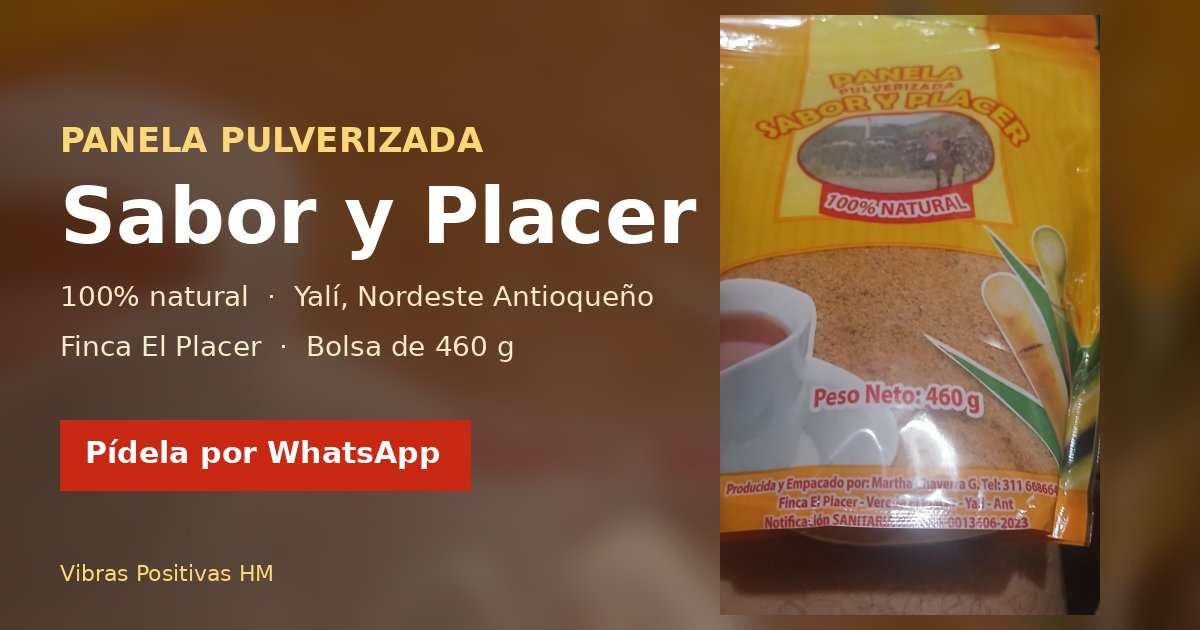
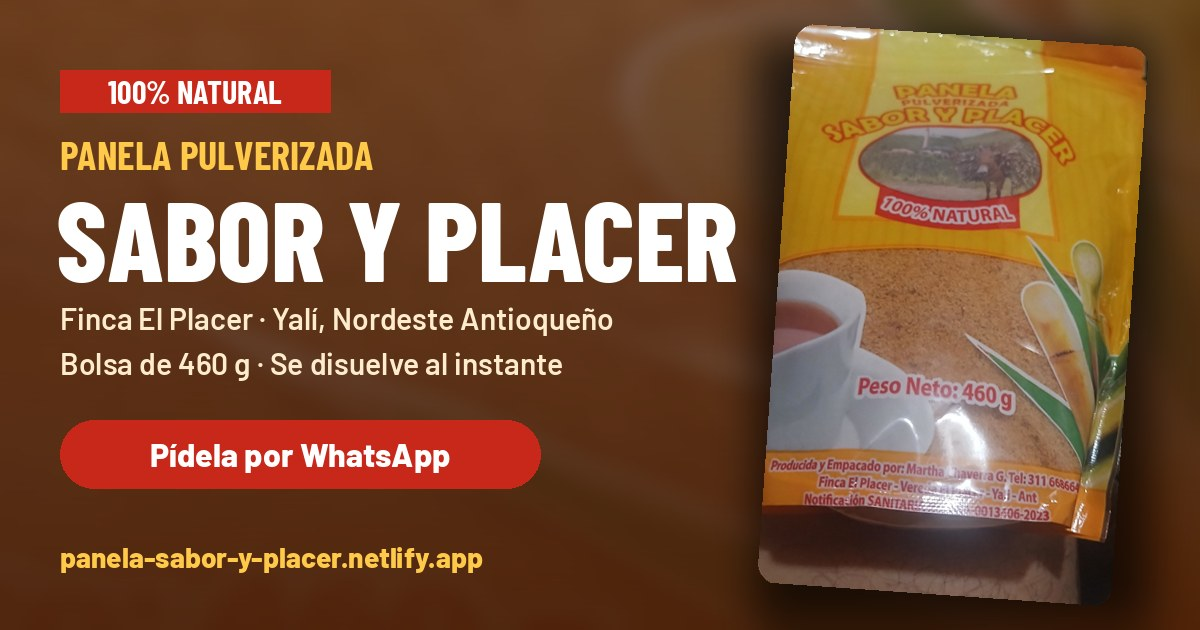
Flyer, nueva vista previa del enlace y familia de presentaciones Sabor y Placer en el pedido
Claude-Session: https://claude.ai/code/session_01Qv96KWj9HhUnPprSrUncJt

diff --git a/index.html b/index.html
@@ -139,6 +139,25 @@ input:focus,textarea:focus{outline:none;border-color:var(--miel)}
 .priv{font-size:12px;color:#7a5232;margin-top:12px;line-height:1.4}
 .pedido .cta{width:100%;justify-content:center}
 
+.fam{display:grid;gap:14px;grid-template-columns:repeat(2,1fr)}
+@media(min-width:760px){.fam{grid-template-columns:repeat(3,1fr)}}
+.pres{position:relative;border-radius:16px;overflow:hidden;min-height:170px;color:#fff;display:flex;flex-direction:column;justify-content:flex-end;padding:14px;cursor:pointer;box-shadow:0 10px 26px #4a1f0533;transition:transform .3s}
+.pres:hover{transform:translateY(-5px) rotate(-.5deg)}
+.pres img{position:absolute;inset:0;width:100%;height:100%;object-fit:cover;transition:transform 4s}
+.pres:hover img{transform:scale(1.15)}
+.pres::after{content:"";position:absolute;inset:0;background:linear-gradient(transparent 20%,#2b1404e6)}
+.pres *:not(img){position:relative;z-index:2}
+.pres b{font:800 24px "Barlow Condensed";text-transform:uppercase;line-height:1}
+.pres small{color:var(--oro);font-weight:700}
+.pres .add{margin-top:8px;align-self:flex-start;background:var(--rojo);border-radius:20px;padding:5px 12px;font:800 12px Barlow;text-transform:uppercase;letter-spacing:1px}
+.pres.star,.pres:last-child{grid-column:span 2}
+@media(min-width:760px){.pres.star,.pres:last-child{grid-column:span 1}}
+.flash{animation:flash .8s}
+@keyframes flash{0%{background:#ffc94a}100%{background:transparent}}
+.lines .row{border-bottom:1px dashed #e6cfa3;padding-bottom:10px}
+.lines .qty button{width:38px;height:38px;font-size:20px}
+.lines .qty output{min-width:36px;font-size:26px}
+.note{font-size:13px;color:#7a5232;margin-top:18px}
 footer{background:var(--cafe);color:#f3d9a6;text-align:center;padding:36px 20px 110px;font-size:14px;line-height:1.7}
 footer b{color:var(--oro)}
 
@@ -229,15 +248,21 @@ footer b{color:var(--oro)}
   </div>
 </section>
 
+<section style="background:#fff">
+  <div class="wrap">
+    <h2 class="sec-t rv" data-i18n="fam_t">La familia Sabor y Placer</h2>
+    <p class="sec-s rv" data-i18n="fam_s">Además de la pulverizada, la marca tiene panela en pastilla, redonda, cuadrada y porcionada. Toca una para agregarla a tu pedido.</p>
+    <div class="fam" id="fam"></div>
+    <p class="note rv" data-i18n="fam_n">Presentaciones de la marca que se encuentran en supermercados de Antioquia. Confirma disponibilidad al hacer tu pedido.</p>
+  </div>
+</section>
+
 <section class="pedido" id="pedido">
   <div class="wrap">
     <h2 class="sec-t rv" style="text-align:center" data-i18n="ped_t">Haz tu pedido</h2>
     <p class="sec-s rv" style="margin:0 auto 26px;text-align:center" data-i18n="ped_s">Elige cuántas bolsas quieres y te llega el mensaje listo por WhatsApp.</p>
     <div class="box rv">
-      <div class="row">
-        <div><b data-i18n="prod">Panela pulverizada 460 g</b><br><small id="precioTxt"></small></div>
-        <div class="qty"><button id="menos" aria-label="menos">−</button><output id="q">1</output><button id="mas" aria-label="más">+</button></div>
-      </div>
+      <div class="lines" id="lines"></div>
       <div class="row"><span data-i18n="tot">Total</span><span class="total" id="total"></span></div>
       <label for="nom" data-i18n="nom">Tu nombre</label>
       <input id="nom" autocomplete="name">
@@ -291,8 +316,9 @@ const T = {
   env:"Enviar pedido por WhatsApp",priv:"Tus datos solo se usan para enviar este pedido por WhatsApp. No se guardan en ningún servidor (Ley 1581 de 2012, Habeas Data).",
   f1:"Producida y empacada por Martha Chaverra G. · Finca El Placer · Yalí, Antioquia",f2:"Consérvese en un lugar fresco y seco.",
   f3:"Desarrollada por Vibras Positivas HM — Derechos de Autor Reservados",fab:"Pedir por WhatsApp",inst:"Instalar app",
-  convenir:"Precio a convenir",cu:"c/u",bolsas:"bolsa(s)",
-  msg:(q,n,d,no,t)=>`Hola, quiero pedir Panela Sabor y Placer:\n- ${q} bolsa(s) de 460 g${t?`\n- Total: ${t}`:""}\n\nNombre: ${n||"-"}\nEntrega: ${d||"-"}${no?`\nNota: ${no}`:""}`,
+  convenir:"Precio a convenir",cu:"c/u",und:"producto(s)",agregar:"Agregar",
+  fam_t:"La familia Sabor y Placer",fam_s:"Además de la pulverizada, la marca tiene panela en pastilla, redonda, cuadrada y porcionada. Toca una para agregarla a tu pedido.",fam_n:"Presentaciones de la marca que se encuentran en supermercados de Antioquia. Confirma disponibilidad al hacer tu pedido.",
+  msg:(q,n,d,no,t)=>`Hola, quiero pedir Panela Sabor y Placer:\n${q}${t?`\n- Total: ${t}`:""}\n\nNombre: ${n||"-"}\nEntrega: ${d||"-"}${no?`\nNota: ${no}`:""}`,
   fabmsg:"Hola, quiero información de la Panela Sabor y Placer."},
  en:{splash_k:"POWDERED PANELA",splash_s:"Yalí · Northeast Antioquia, Colombia",kicker:"100% natural",h1a:"Panela",
   lead:"Powdered unrefined cane sugar from Finca El Placer, in the mountains of Yalí. Ready to dissolve in aguapanela, lemonade or hot chocolate.",
@@ -315,12 +341,22 @@ const T = {
   env:"Send order via WhatsApp",priv:"Your data is only used to send this order via WhatsApp. It is not stored on any server (Colombian Law 1581 of 2012, Habeas Data).",
   f1:"Produced and packed by Martha Chaverra G. · Finca El Placer · Yalí, Antioquia",f2:"Store in a cool, dry place.",
   f3:"Developed by Vibras Positivas HM — All Rights Reserved",fab:"Order on WhatsApp",inst:"Install app",
-  convenir:"Price on request",cu:"each",bolsas:"bag(s)",
-  msg:(q,n,d,no,t)=>`Hello, I'd like to order Panela Sabor y Placer:\n- ${q} bag(s) of 460 g${t?`\n- Total: ${t}`:""}\n\nName: ${n||"-"}\nDelivery: ${d||"-"}${no?`\nNote: ${no}`:""}`,
+  convenir:"Price on request",cu:"each",und:"item(s)",agregar:"Add",
+  fam_t:"The Sabor y Placer family",fam_s:"Besides the powdered panela, the brand makes tablet, round, square and portioned panela. Tap one to add it to your order.",fam_n:"Brand presentations found in supermarkets across Antioquia. Confirm availability when you order.",
+  msg:(q,n,d,no,t)=>`Hello, I'd like to order Panela Sabor y Placer:\n${q}${t?`\n- Total: ${t}`:""}\n\nName: ${n||"-"}\nDelivery: ${d||"-"}${no?`\nNote: ${no}`:""}`,
   fabmsg:"Hello, I'd like information about Panela Sabor y Placer."}
 };
+/* Presentaciones de la marca. precio 0 = a convenir (la pulverizada usa CONFIG.precio) */
+const PRODUCTOS = [
+  {id:"pulv", es:"Pulverizada", en:"Powdered", peso:"460 g", precio:0, f:"", star:true},
+  {id:"past", es:"En pastilla", en:"Tablet", peso:"480 g", precio:0, f:"sepia(.5) brightness(.85) saturate(1.4)"},
+  {id:"red8", es:"Redonda x 8", en:"Round x 8", peso:"900 g", precio:0, f:"brightness(.7) saturate(1.6)"},
+  {id:"cua8", es:"Cuadrada x 8", en:"Square x 8", peso:"900 g", precio:0, f:"hue-rotate(-12deg) brightness(.8)"},
+  {id:"por18", es:"Porcionada x 18", en:"Portions x 18", peso:"900 g", precio:0, f:"sepia(.3) brightness(.95) saturate(1.8)"},
+  {id:"taz2", es:"Tacita x 2", en:"Mini-cup x 2", peso:"650 g", precio:0, f:"contrast(1.3) brightness(.75)"}
+];
 let L = localStorage.getItem("ssp_lang") || "es";
-let q = 1;
+const Q = {pulv:1};
 const $ = s=>document.querySelector(s);
 const cop = n=>"$"+n.toLocaleString("es-CO");
 
@@ -332,20 +368,36 @@ function render(){
   document.querySelectorAll(".lang button").forEach(b=>b.classList.toggle("on",b.dataset.l===L));
   const tk=t.tk.map(x=>`<span>${x}</span><span>·</span>`).join(""); $("#tk").innerHTML=tk+tk;
   $("#fab").href=`https://wa.me/${CONFIG.whatsapp}?text=${encodeURIComponent(t.fabmsg)}`;
-  totals();
+  renderFam(); totals();
+}
+const precioDe = p => p.id==="pulv" && !p.precio ? CONFIG.precio : p.precio;
+function nombre(p){ return `${p[L]} (${p.peso})`; }
+function renderFam(){
+  const t=T[L];
+  $("#fam").innerHTML=PRODUCTOS.map(p=>`<div class="pres${p.star?" star":""}" data-id="${p.id}">
+    <img src="textura.jpg" alt="" style="filter:${p.f}"><small>${p.peso}</small><b>${p[L]}</b><span class="add">${t.agregar}</span></div>`).join("");
+  document.querySelectorAll(".pres").forEach(c=>c.onclick=()=>{const id=c.dataset.id;Q[id]=(Q[id]||0)+1;totals();
+    const r=document.querySelector(`.lines [data-id="${id}"]`); if(r){r.classList.remove("flash");void r.offsetWidth;r.classList.add("flash");}
+    document.getElementById("pedido").scrollIntoView({behavior:"smooth"});});
 }
 function totals(){
-  const t=T[L]; $("#q").textContent=q;
-  if(CONFIG.precio>0){ $("#precioTxt").textContent=`${cop(CONFIG.precio)} ${t.cu}`; $("#total").textContent=cop(CONFIG.precio*q); }
-  else { $("#precioTxt").textContent=t.convenir; $("#total").textContent=`${q} ${t.bolsas}`; }
+  const t=T[L];
+  if(!Object.values(Q).some(v=>v>0)) Q.pulv=1;
+  $("#lines").innerHTML=PRODUCTOS.filter(p=>Q[p.id]>0).map(p=>{const pr=precioDe(p);
+    return `<div class="row" data-id="${p.id}"><div><b>${nombre(p)}</b><br><small>${pr>0?cop(pr)+" "+t.cu:t.convenir}</small></div>
+    <div class="qty"><button data-m="${p.id}" aria-label="menos">−</button><output>${Q[p.id]}</output><button data-p="${p.id}" aria-label="más">+</button></div></div>`}).join("");
+  $("#lines").querySelectorAll("[data-m]").forEach(b=>b.onclick=()=>{Q[b.dataset.m]--;totals();});
+  $("#lines").querySelectorAll("[data-p]").forEach(b=>b.onclick=()=>{Q[b.dataset.p]=Math.min(99,Q[b.dataset.p]+1);totals();});
+  const sel=PRODUCTOS.filter(p=>Q[p.id]>0), und=sel.reduce((a,p)=>a+Q[p.id],0);
+  $("#total").textContent = sel.every(p=>precioDe(p)>0) ? cop(sel.reduce((a,p)=>a+precioDe(p)*Q[p.id],0)) : `${und} ${t.und}`;
 }
 document.querySelectorAll(".lang button").forEach(b=>b.onclick=()=>{L=b.dataset.l;try{localStorage.setItem("ssp_lang",L)}catch(e){};render();});
-$("#mas").onclick=()=>{q=Math.min(99,q+1);totals();};
-$("#menos").onclick=()=>{q=Math.max(1,q-1);totals();};
 document.querySelectorAll(".uso").forEach(u=>u.onclick=()=>{u.classList.toggle("open");render();});
 $("#enviar").onclick=()=>{
-  const t=T[L], tot=CONFIG.precio>0?cop(CONFIG.precio*q):"";
-  const m=t.msg(q,$("#nom").value.trim(),$("#dir").value.trim(),$("#nota").value.trim(),tot);
+  const t=T[L], sel=PRODUCTOS.filter(p=>Q[p.id]>0);
+  const items=sel.map(p=>`- ${Q[p.id]} x ${nombre(p)}`).join("\n");
+  const tot=sel.every(p=>precioDe(p)>0)?cop(sel.reduce((a,p)=>a+precioDe(p)*Q[p.id],0)):"";
+  const m=t.msg(items,$("#nom").value.trim(),$("#dir").value.trim(),$("#nota").value.trim(),tot);
   window.open(`https://wa.me/${CONFIG.whatsapp}?text=${encodeURIComponent(m)}`,"_blank");
 };
 

diff --git a/sw.js b/sw.js
@@ -1,4 +1,4 @@
-const C="sabor-y-placer-v1";
+const C="sabor-y-placer-v2";
 const A=["./","index.html","manifest.json","frente.jpg","reverso.jpg","textura.jpg","arriero.jpg","icon-192.png","icon-512.png"];
 self.addEventListener("install",e=>{e.waitUntil(caches.open(C).then(c=>c.addAll(A)));self.skipWaiting();});
 self.addEventListener("activate",e=>{e.waitUntil(caches.keys().then(k=>Promise.all(k.filter(x=>x!==C).map(x=>caches.delete(x)))));self.clients.claim();});

diff --git a/README.md b/README.md
@@ -7,7 +7,9 @@ App (PWA) de Vibras Positivas HM para **Panela Pulverizada Sabor y Placer**, 100
 - Historia de los arrieros y la caña (texto del empaque)
 - 3 preparaciones: aguapanela, limonada de panela y chocolate
 - Ficha del producto con contadores animados
-- Pedido por WhatsApp con cantidad, nombre y dirección (mensaje listo)
+- Familia Sabor y Placer: pulverizada, pastilla, redonda, cuadrada, porcionada y tacita; se agregan al pedido con un toque
+- Pedido por WhatsApp (311 668 6640) con varias presentaciones, nombre y dirección
+- `flyer.jpg`: flyer con QR a la app
 - Español / Inglés
 - Instalable (manifest + service worker), funciona sin internet
 - Vista previa del enlace con foto real (`og.jpg`, 1200×630)
